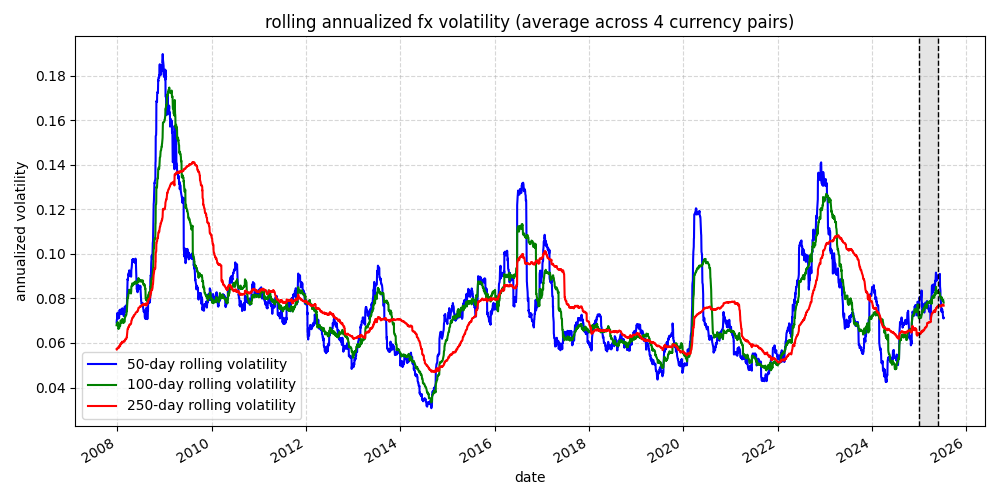
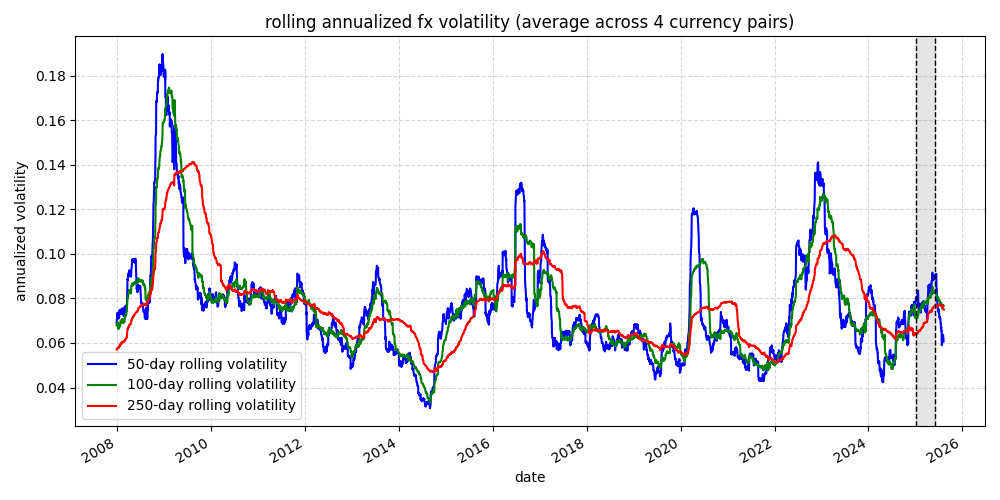
more plots and interbank rates

diff --git a/vol_models/plot_arch.py b/vol_models/plot_arch.py
@@ -16,8 +16,8 @@ arch_vols['USD/YUAN'].plot(ax=ax, color='orange', alpha=0.7)
 
 highlight_ranges = [
     ('2008-08-01', '2009-05-01'),
-    ('2020-01-01', '2020-07-01'),
-    ('2025-03-01', '2025-06-01')
+    ('2020-02-01', '2020-07-01'),
+    ('2025-03-20', '2025-05-10')
 ]
 
 for start, end in highlight_ranges:
@@ -32,36 +32,35 @@ plt.savefig('/Users/aryaman/macro-research/plots/figures/ARCH/ARCH_vols_daily.pn
 
 # plot monthly annualized vol with monthly annualized ARCH vols
 
-fxvol_by_month = rets.resample('M').std(ddof=0).mul(np.sqrt(252))
-arch_vols_by_month = arch_vols.resample('M').mean().mul(np.sqrt(252))
+fxvol_by_month = rets.pow(2).resample('M').mean().mul(252).pow(0.5)
+arch_vols_annualized = arch_vols.mul(np.sqrt(252))
 
 plt.figure(figsize=(10, 5))
 
 fxvol_by_month['EUR/USD'].plot(label='EUR/USD realized vol', color='blue', linestyle='--', alpha=0.7)
-arch_vols_by_month['EUR/USD'].plot(label='EUR/USD ARCH vol', color='blue', linestyle='-', linewidth=1.5)
+arch_vols_annualized['EUR/USD'].plot(label='EUR/USD ARCH vol', color='blue', linestyle='-', linewidth=1)
 
 fxvol_by_month['GBP/USD'].plot(label='GBP/USD realized vol', color='green', linestyle='--', alpha=0.7)
-arch_vols_by_month['GBP/USD'].plot(label='GBP/USD ARCH vol', color='green', linestyle='-', linewidth=1.5)
+arch_vols_annualized['GBP/USD'].plot(label='GBP/USD ARCH vol', color='green', linestyle='-', linewidth=1)
 
 fxvol_by_month['USD/YEN'].plot(label='USD/YEN realized vol', color='red', linestyle='--', alpha=0.7)
-arch_vols_by_month['USD/YEN'].plot(label='USD/YEN ARCH vol', color='red', linestyle='-', linewidth=1.5)
+arch_vols_annualized['USD/YEN'].plot(label='USD/YEN ARCH vol', color='red', linestyle='-', linewidth=1)
 
 fxvol_by_month['USD/YUAN'].plot(label='USD/YUAN realized vol', color='orange', linestyle='--', alpha=0.7)
-arch_vols_by_month['USD/YUAN'].plot(label='USD/YUAN ARCH vol', color='orange', linestyle='-', linewidth=1.5)
-
-highlight_ranges = [
-    ('2008-08', '2009-04'),
-    ('2020-01', '2020-07'),
-    ('2025-03', '2025-05')
-]
+arch_vols_annualized['USD/YUAN'].plot(label='USD/YUAN ARCH vol', color='orange', linestyle='-', linewidth=1)
 
 for start, end in highlight_ranges:
     plt.axvspan(pd.to_datetime(start), pd.to_datetime(end), color='gray', alpha=0.2)
 
-plt.title('monthly annualized realized volatility vs ARCH volatility')
+plt.title('monthly annualized realized volatility (dashed) vs ARCH volatility (solid)')
 plt.ylabel('annualized volatility (%)')
 plt.xlabel('date')
 plt.legend(loc='upper left')
 plt.tight_layout()
-plt.savefig('/Users/aryaman/macro-research/plots/figures/ARCH/ARCH_vols_monthly.png')
+# plt.savefig('/Users/aryaman/macro-research/plots/figures/ARCH/ARCH_vols_monthly.png')
 plt.show()
+
+# split into subplots 
+
+# fig, axes = plt.subplots(2, 2, figsize=(12, 8), sharex=True)
+# axes = axes.ravel()

diff --git a/plots/crises_yield_vs_usd.py b/plots/crises_yield_vs_usd.py
@@ -13,7 +13,7 @@ daily_yield = fred.get_series('DGS10').to_frame(name='10yr_U.S._nominal_rate')
 daily_yield.index = pd.to_datetime(daily_yield.index)
 daily_yield.dropna(inplace=True)
 
-date_ranges = [['GFC', '2008-08-01', '2009-05-01'], ['COVID', '2020-01-01', '2020-07-01'], ['April 2025', '2025-03-20', '2025-05-10']]
+date_ranges = [['GFC', '2008-08-01', '2009-05-01'], ['COVID', '2020-02-01', '2020-07-01'], ['April 2025', '2025-03-20', '2025-05-10']]
 pairs = ['USD/EUR', 'USD/GBP', 'USD/YEN', 'USD/YUAN']
 
 for label, start, end in date_ranges:
@@ -35,18 +35,14 @@ for label, start, end in date_ranges:
         # correlations - level and log returns (with and without lags)
         aligned = pd.concat([spots_trunc[c].rename('spot'), yield_trunc], axis=1).dropna()
         corr_level = aligned['spot'].corr(aligned['10yr_U.S._nominal_rate'])
-
         corr_level_lag1 = aligned['spot'].corr(aligned['10yr_U.S._nominal_rate'].shift(1)) 
-        corr_level_lag5 = aligned['spot'].corr(aligned['10yr_U.S._nominal_rate'].shift(5))  
 
         lr = np.log(aligned).diff().dropna()
         corr_logret = lr['spot'].corr(lr['10yr_U.S._nominal_rate'])
-
         corr_logret_lag1 = lr['spot'].corr(lr['10yr_U.S._nominal_rate'].shift(1))
-        corr_logret_lag5 = lr['spot'].corr(lr['10yr_U.S._nominal_rate'].shift(5))  
 
         summary_rows.append(  
-            (c, rc, ry, corr_level, corr_level_lag1, corr_level_lag5, corr_logret, corr_logret_lag1, corr_logret_lag5)
+            (c, rc, ry, len(aligned), corr_level, corr_level_lag1, corr_logret, corr_logret_lag1)
         )
 
         ax1 = axes[i]
@@ -63,9 +59,9 @@ for label, start, end in date_ranges:
     summary = pd.DataFrame( 
         summary_rows,
         columns=[
-            'pair', 'USD vs pair %', '10y yield %',
-            'corr(level)', 'corr(level, yield -1d)', 'corr(level, yield -5d)',
-            'corr(logret)', 'corr(logret, yield -1d)', 'corr(logret, yield -5d)'
+            'pair', 'USD vs pair %', '10y yield %', 'n',
+            'corr(level)', 'corr(level, yield -1d)',
+            'corr(logret)', 'corr(logret, yield -1d)'
         ]
     ).set_index('pair').round(2)
 

diff --git a/plots/interbank_rates.py b/plots/interbank_rates.py
@@ -1,0 +1,30 @@
+import pandas as pd 
+import matplotlib.pyplot as plt 
+
+from data.loader import get_interbank_rates
+
+interbank_rates = get_interbank_rates()
+
+fig, ax = plt.subplots(figsize=(12, 6))
+interbank_rates['US - Euro area'] = interbank_rates['US interbank rate'] - interbank_rates['Euro area interbank rate']
+interbank_rates['US - UK'] = interbank_rates['US interbank rate'] - interbank_rates['UK interbank rate']
+interbank_rates['US - Japan'] = interbank_rates['US interbank rate'] - interbank_rates['Japan interbank rate']
+interbank_rates['US - China'] = interbank_rates['US interbank rate'] - interbank_rates['China interbank rate']
+
+interbank_rates = interbank_rates.truncate(before='2002-01-01', after='2009-06-01')
+
+interbank_rates['US - Euro area'].plot(ax=ax, alpha=0.7, color='blue')
+interbank_rates['US - UK'].plot(ax=ax, alpha=0.7, color='green')
+interbank_rates['US - Japan'].plot(ax=ax, alpha=0.7, color='red')
+interbank_rates['US - China'].plot(ax=ax, alpha=0.7, color='orange')
+
+plt.axvspan(pd.to_datetime('2008-08-01'), pd.to_datetime('2009-05-01'), color='gray', alpha=0.2)
+ax.axhline(0, linestyle='-', linewidth=1, color='black', alpha=0.6, zorder=1.5, label='_nolegend_')
+
+ax.set_title('interbank rate differentials leading to GFC')
+ax.set_ylabel('differential (%)')
+ax.set_xlabel('date')
+plt.legend(loc='upper left')
+plt.tight_layout()
+plt.savefig('/Users/aryaman/macro-research/plots/figures/interbank_rates_differentials_GFC.png')
+plt.show()

diff --git a/plots/correlations.py b/plots/correlations.py
@@ -13,7 +13,7 @@ daily_yield = fred.get_series('DGS10').to_frame(name='10yr_U.S._nominal_rate')
 daily_yield.index = pd.to_datetime(daily_yield.index)
 daily_yield.dropna(inplace=True)
 
-date_ranges = [('2008-08-01', '2009-05-01'), ('2020-01-01', '2020-07-01'), ('2025-03-20', '2025-05-10')]
+date_ranges = [('2008-08-01', '2009-05-01'), ('2020-02-01', '2020-07-01'), ('2025-03-20', '2025-05-10')]
 pairs = ['USD/EUR', 'USD/GBP', 'USD/YEN', 'USD/YUAN']
 windows = [21, 63, 126, 252] # 1m, 3m, 6m, 1y
 
@@ -47,8 +47,9 @@ def plot_rolling_correlations(start=None, end=None, full=False):
         
         for ax in (axes_lvl[i], axes_ret[i]):
             ax.set_ylim(-1.05, 1.05)
-            ax.axhline(0, linestyle='--', linewidth=1, color='black', alpha=0.6, zorder=1.5, label='_nolegend_')
+            ax.axhline(0, linestyle='-', linewidth=1, color='black', alpha=0.6, zorder=1.5, label='_nolegend_')
             ax.tick_params(axis='x', labelsize=7)
+            ax.grid(True, linestyle='-', alpha=0.3, zorder=1)
 
         axes_lvl[i].set_title(f'{c}')
         axes_lvl[i].set_xlabel('date')

diff --git a/data/loader.py b/data/loader.py
@@ -220,3 +220,20 @@ def get_dxy_spots():
 
     return dxy_spots
 
+def get_interbank_rates(): 
+    series = ['IRSTCI01USM156N', 'IRSTCI01EZM156N', 'IRSTCI01GBM156N', 'IRSTCI01JPM156N', 'IRSTCI01CNM156N']
+    interbank_data = {sid: fred.get_series(sid) for sid in series}
+    interbank_rates = pd.DataFrame(interbank_data)
+
+    interbank_rates = interbank_rates.rename(columns={
+        'IRSTCI01USM156N': 'US interbank rate',
+        'IRSTCI01EZM156N': 'Euro area interbank rate',
+        'IRSTCI01GBM156N': 'UK interbank rate',
+        'IRSTCI01JPM156N': 'Japan interbank rate', 
+        'IRSTCI01CNM156N': 'China interbank rate'
+    })
+
+    interbank_rates.index = pd.to_datetime(interbank_rates.index)
+    interbank_rates.dropna(inplace=True)
+
+    return interbank_rates

diff --git a/plots/fxvolatility.py b/plots/fxvolatility.py
@@ -226,11 +226,9 @@ ax.tick_params(axis='x', labelsize=8)
 plt.xticks(rotation=45, ha='right')
 
 highlight_ranges = [
-    ('2008-10', '2009-04'),
-    ('2016-04', '2016-10'),
-    ('2020-01', '2020-07'),
-    ('2022-10', '2023-04'),
-    ('2025-01', '2025-07')
+    ('2008-08', '2009-05'),
+    ('2020-02', '2020-07'),
+    ('2025-03', '2025-05')
 ]
 
 for start, end in highlight_ranges:
